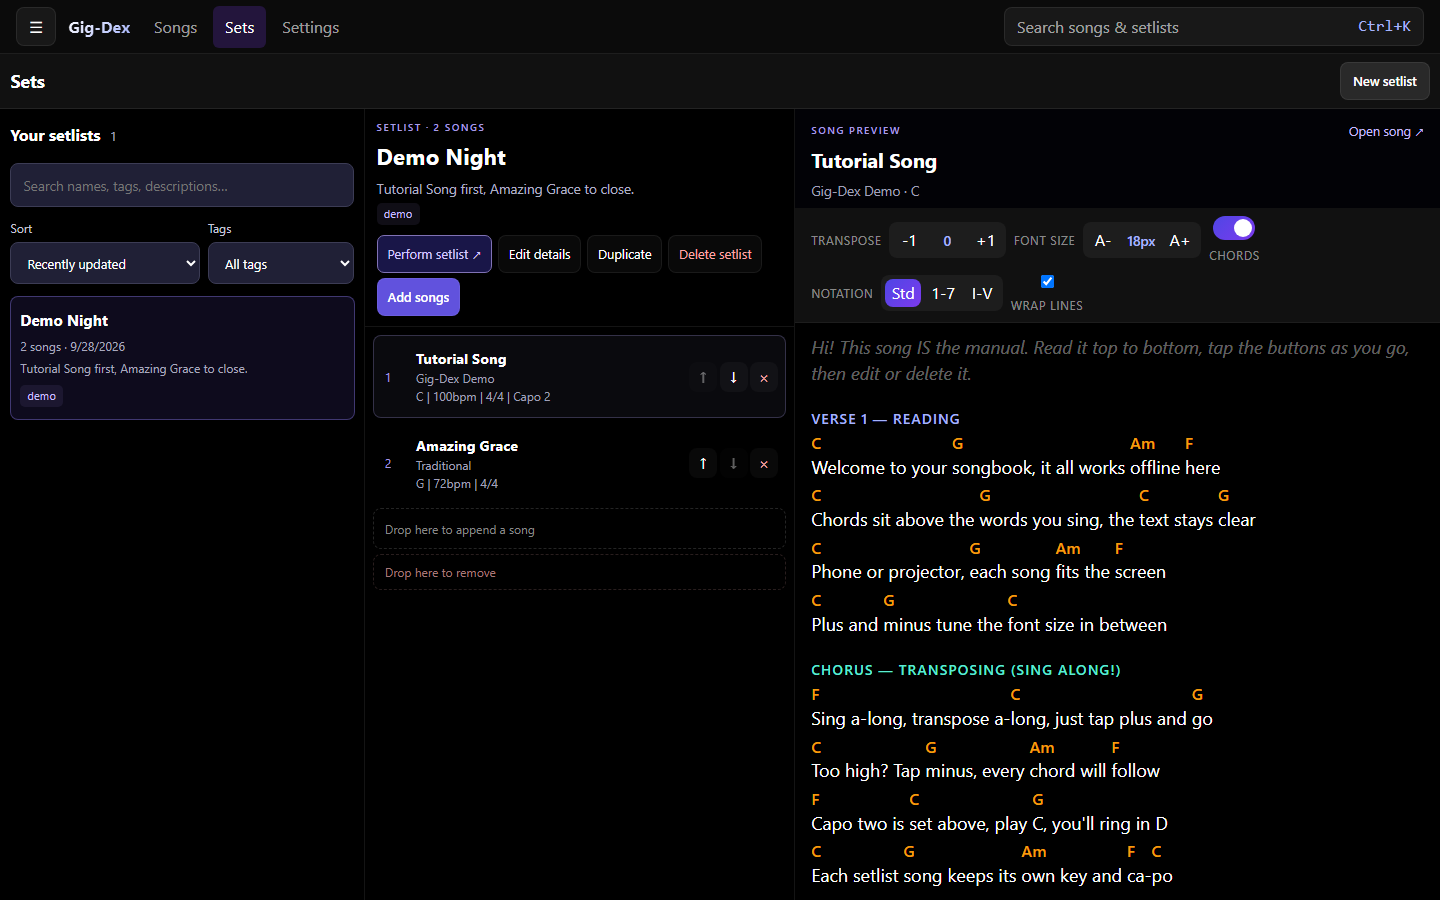
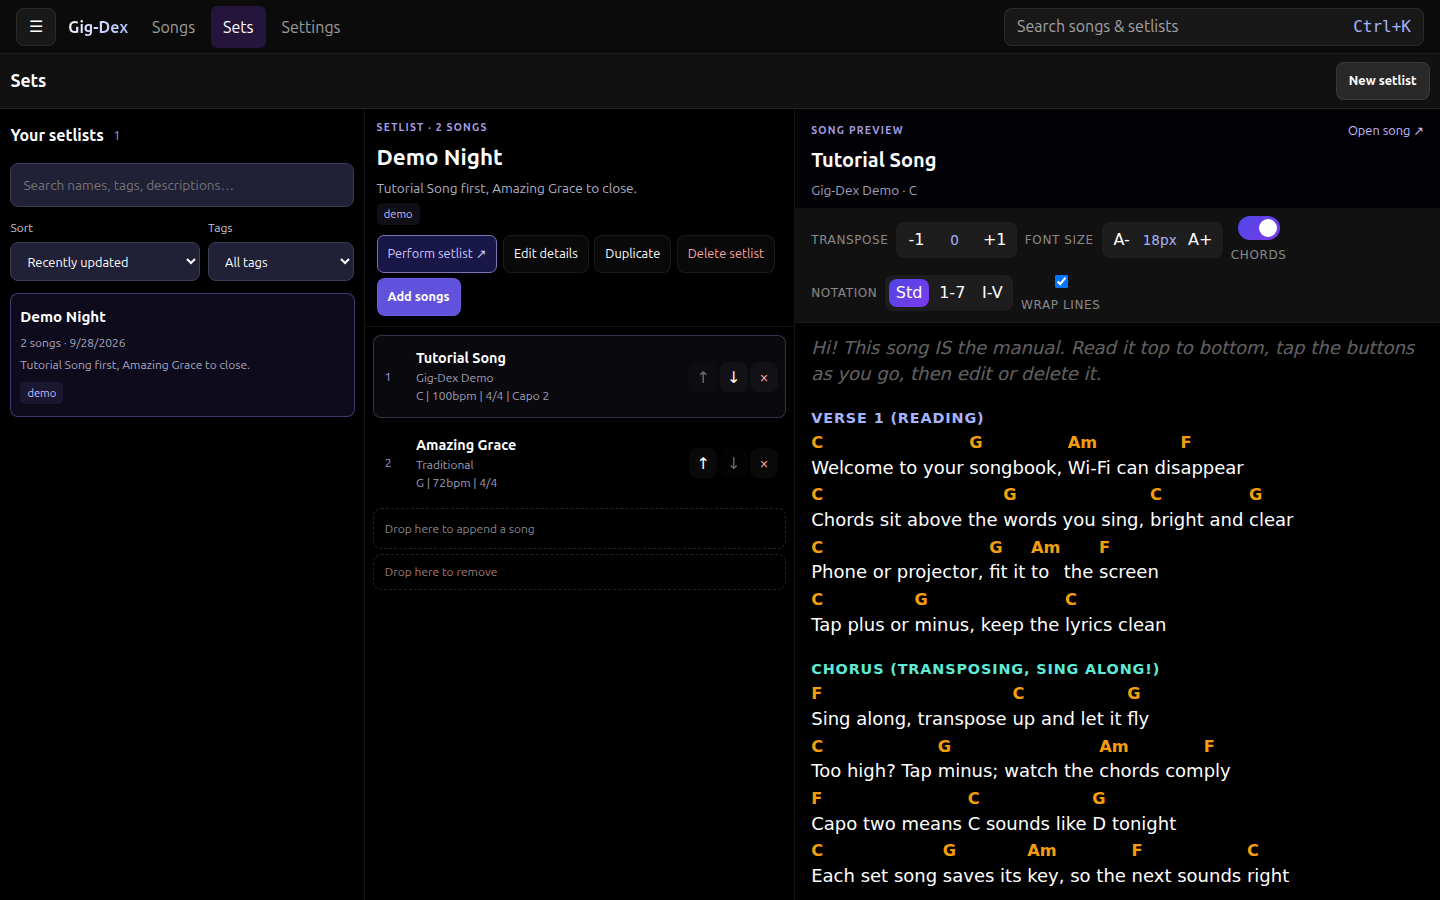
Polish tutorial song and render instrumental chords

diff --git a/src/utils/demoSong.ts b/src/utils/demoSong.ts
@@ -29,8 +29,8 @@ And [G]grace will [D]lead me [G]home
 
 /**
  * Tutorial Song: the manual you can sing. Each section teaches one
- * Gig-Dex feature. Demonstrates verse, chorus, bridge, instrumental
- * tab, outro, comments and metadata (key, tempo, time, capo).
+ * Gig-Dex feature. Demonstrates verse, chorus, bridge, chord-only
+ * instrumental, outro, comments and metadata (key, tempo, time, capo).
  */
 export const TUTORIAL_SONG = `{title: Tutorial Song}
 {artist: Gig-Dex Demo}
@@ -41,37 +41,36 @@ export const TUTORIAL_SONG = `{title: Tutorial Song}
 
 {comment: Hi! This song IS the manual. Read it top to bottom, tap the buttons as you go, then edit or delete it.}
 
-{start_of_verse: Verse 1 — Reading}
-[C]Welcome to your [G]songbook, it all works [Am]offline [F]here
-[C]Chords sit above the [G]words you sing, the [C]text stays [G]clear
-[C]Phone or projector, [G]each song [Am]fits the [F]screen
-[C]Plus and [G]minus tune the [C]font size in between
+{start_of_verse: Verse 1 (Reading)}
+[C]Welcome to your [G]songbook, [Am]Wi-Fi can dis[F]appear
+[C]Chords sit above the [G]words you sing, [C]bright and [G]clear
+[C]Phone or projector, [G]fit it [Am]to the [F]screen
+[C]Tap plus or [G]minus, keep the [C]lyrics clean
 {end_of_verse}
 
-{start_of_chorus: Chorus — Transposing (sing along!)}
-[F]Sing a-long, transpose a-[C]long, just tap plus and [G]go
-[C]Too high? Tap [G]minus, every [Am]chord will [F]follow
-[F]Capo two is [C]set above, play [G]C, you'll ring in D
-[C]Each setlist [G]song keeps its [Am]own key and [F]ca-[C]po
+{start_of_chorus: Chorus (Transposing, sing along!)}
+[F]Sing along, transpose [C]up and let it [G]fly
+[C]Too high? Tap [G]minus; watch the [Am]chords com[F]ply
+[F]Capo two means [C]C sounds like [G]D tonight
+[C]Each set song [G]saves its [Am]key, so the [F]next sounds [C]right
 {end_of_chorus}
 
-{start_of_verse: Verse 2 — Setlists}
-[C]Open Sets, make a [G]new list, then [Am]tap the [F]plus sign
-[C]Drag the songs in [G]gig order, [C]repeats are [G]fine
-[C]Hit Perform when [G]lights go down, the [Am]screen stays a-[F]wake
-[C]Arrows, swipe, or [G]big buttons — [C]next song, piece of cake
+{start_of_verse: Verse 2 (Setlists)}
+[C]Open Sets, make a [G]new list, [Am]tap the [F]plus sign
+[C]Drag songs into [G]gig order; [C]encores twice are [G]fine
+[C]Hit Perform when [G]lights go down, the [Am]screen stays [F]bright
+[C]Swipe to the [G]next song; no [C]page-flip fight
 {end_of_verse}
 
-{start_of_bridge: Bridge — Safety}
-[Am]Before the gig ex-[G]port your JSON [F]file
-[Am]Paste Ultimate-[G]Guitar chords too, they [C]convert just fine
-[Am]Sync through folders [G]if you like, or [F]keep it all right here
-[C]Offline-[G]first means [Am]no Wi-[F]Fi [C]fear
+{start_of_bridge: Bridge (Safety)}
+[Am]Before the gig, ex-[G]port a backup [F]file
+[Am]Paste in chord sheets [G]too; your library [C]grows in style
+[Am]Sync through folders [G]if you like, or [F]keep it right here
+[C]If the [G]router calls in [Am]sick, the [F]chords won't [C]disappear
 {end_of_bridge}
 
-{start_of_tab: Instrumental (tune up while nobody sings)}
+{comment: Instrumental}
 [C] [G] [Am] [F] | [C] [G] [C]
-{end_of_tab}
 
 {start_of_outro: Outro}
 [C]That's the tour, now [G]go and [Am]play the [F]show

diff --git a/e2e/home.spec.ts b/e2e/home.spec.ts
@@ -56,6 +56,26 @@ test.describe("Home Page", () => {
 		await expect(page.locator("#sidebar-songs .library-sidebar__links a")).not.toBeVisible();
 	});
 
+	test("demo Instrumental uses the chord color", async ({ page }) => {
+		await page.goto("./");
+		await page.getByRole("button", { name: "Add Demo Song" }).click();
+		await page.getByRole("link", { name: /Tutorial Song Gig-Dex Demo/ }).click();
+		const label = page.locator(".song-view__content .section-instrumental");
+		await expect(label).toBeVisible();
+		const chords = await label.evaluate((element) => {
+			const section = element.closest(".paragraph") ?? element.parentElement;
+			return Array.from(section?.querySelectorAll(".chord") ?? []).map((chord) => ({
+				text: chord.textContent?.trim(),
+				color: getComputedStyle(chord).color,
+			}));
+		});
+		const namedChords = chords.filter((chord) => chord.text);
+		expect(namedChords.map((chord) => chord.text)).toEqual(["C", "G", "Am", "F", "C", "G", "C"]);
+		expect(namedChords.every((chord) => chord.color === "rgb(245, 158, 11)")).toBe(true);
+		await label.scrollIntoViewIfNeeded();
+		await page.screenshot({ path: "reports/tutorial-instrumental.png" });
+	});
+
 	test("should navigate to new song page via FAB", async ({ page }) => {
 		await page.goto("./");
 

diff --git a/src/utils/chordEngine.test.ts b/src/utils/chordEngine.test.ts
@@ -8,6 +8,7 @@ import {
 	normalizeSimpleSpacing,
 	parseChordPro,
 	simpleToChordPro,
+	TUTORIAL_SONG,
 	transposeChordPro,
 } from "./chordEngine";
 
@@ -36,6 +37,15 @@ describe("chordEngine", () => {
 
 			expect(result.html).toBeTruthy();
 			expect(typeof result.html).toBe("string");
+		});
+
+		it("renders the demo instrumental as styled chords", () => {
+			const container = document.createElement("div");
+			container.innerHTML = parseChordPro(TUTORIAL_SONG).html;
+			const label = container.querySelector(".section-instrumental");
+			expect(label).not.toBeNull();
+			const instrumental = label?.closest(".paragraph") ?? label?.parentElement;
+			expect(instrumental?.querySelectorAll(".chord").length).toBeGreaterThan(0);
 		});
 	});
 

diff --git a/README.md b/README.md
@@ -1,8 +1,8 @@
 # Gig-Dex 🎸
 
-**Your digital songbook and setlist manager — for the stage, the rehearsal room, and the couch.**
+**Your digital songbook and setlist manager for the stage, the rehearsal room, and the couch.**
 
-Gig-Dex keeps all your songs, chords, and setlists in one place, readable on phone, tablet, or laptop — even when the venue Wi-Fi gives up.
+Gig-Dex keeps all your songs, chords, and setlists in one place, readable on phone, tablet, or laptop, even when the venue Wi-Fi gives up.
 
 👉 **Try it:** https://fannon.github.io/gig-dex/
 
@@ -16,13 +16,13 @@ Gig-Dex keeps all your songs, chords, and setlists in one place, readable on pho
 ### What can I do with it?
 
 - **Collect your repertoire:** keep lyrics + chords together, neatly aligned.
-- **Play in any key:** transpose any song instantly, add a capo — without rewriting anything.
+- **Play in any key:** transpose any song instantly and add a capo without rewriting anything.
 - **Build setlists:** put songs in gig order, including repeats, notes, and per-song key/capo settings.
 - **Perform distraction-free:** big, auto-fitting text, page-by-page or scrolling reading, simple Previous / Next navigation, optional visual beat pulse.
 - **Find songs fast:** search by title, artist, tag, or setlist with `Ctrl+K` (`Cmd+K` on Mac).
 - **Works offline:** once loaded, your library is on your device. No account, no subscription, no cloud required.
 
-It understands the popular [ChordPro](https://www.chordpro.org/) format (`[Am]Hello [G]world`), so you can paste or import songs from many other tools. The simple editor also accepts the typical guitar-chords style with chord lines above the lyrics (like [Ultimate-Guitar chord sheets](https://tabs.ultimate-guitar.com/)) and converts it automatically — editing always happens in monospace so chords stay aligned. An explicit one-click import for that format is planned.
+It understands the popular [ChordPro](https://www.chordpro.org/) format (`[Am]Hello [G]world`), so you can paste or import songs from many other tools. The simple editor also accepts the typical guitar-chords style with chord lines above the lyrics (like [Ultimate-Guitar chord sheets](https://tabs.ultimate-guitar.com/)) and converts it automatically. Editing happens in monospace so chords stay aligned. An explicit one-click import for that format is planned.
 
 <table>
   <tr valign="top">
@@ -31,31 +31,31 @@ It understands the popular [ChordPro](https://www.chordpro.org/) format (`[Am]He
     <td><a href="docs/screenshots/demo-setlist.png"><img src="docs/screenshots/demo-setlist.png" alt="Demo Night setlist with ordered songs and song preview" width="100%"></a></td>
   </tr>
   <tr valign="middle" align="center">
-    <td><em>The Tutorial Song — tap "Add Demo Songs" to get it</em></td>
+    <td><em>The Tutorial Song. Tap "Add Demo Songs" to get it.</em></td>
     <td><em>Simple editor with live preview</em></td>
     <td><em>Demo Night setlist with song preview</em></td>
   </tr>
 </table>
 
-### Get started in 3 steps — no account needed
+### Get started in 3 steps (no account needed)
 
 1. **Open the app** in your browser (link above).
-2. **Add songs:** go to *Settings → Import* and drop in a few `.pro` / `.chopro` / `.txt` ChordPro files — or create a new song and paste text.
+2. **Add songs:** go to *Settings → Import* and drop in a few `.pro` / `.chopro` / `.txt` ChordPro files, or create a new song and paste text.
 3. **Make a setlist:** go to *Sets → New setlist*, tap **+** on songs to add them, then hit **Perform setlist**.
 
 That's it. Everything is saved automatically on that device.
 
 ### Your songs are safe: backup & sync
 
-Your library lives **on your device** (in your browser). That means it's private and offline-capable — but you should still back it up or sync it if you use multiple devices.
+Your library lives **on your device** (in your browser). That means it's private and offline-capable. You should still back it up or sync it if you use multiple devices.
 
-**1. Backup file — simplest, everyone can do this**
+**1. Backup file: simple and available to everyone**
 
 *Settings → Backup → Export* downloads a single `.json` file with all your songs and setlists. Email it to yourself, put it on a USB stick, keep it somewhere safe. *Settings → Restore backup* brings it back, on any device.
 
 Use this before gigs, before updates, before cleaning up. It just works.
 
-**2. Local folder sync — recommended if you want automatic sync**
+**2. Local folder sync: recommended for automatic sync**
 
 If you already use OneDrive, Google Drive, Dropbox, or Nextcloud on your computer, this is the easiest automatic option:
 
@@ -66,17 +66,17 @@ Gig-Dex writes small files there, and *your existing desktop sync app* carries t
 Limitations to know:
 
 - Picking a folder only works in Chrome or Edge on desktop (browser limitation).
-- On your phone/tablet, use the backup file above to transfer songs — mobile browsers can't pick sync folders.
+- On your phone/tablet, use the backup file above to transfer songs because mobile browsers can't pick sync folders.
 
 Details: [docs/local-folder-sync.md](docs/local-folder-sync.md)
 
-**3. Direct Google Drive / OneDrive sync — advanced only (bring your own Client ID)**
+**3. Direct Google Drive / OneDrive sync: advanced only (bring your own Client ID)**
 
 Gig-Dex *can* talk directly to Google Drive and OneDrive, but there is no shared, ready-to-click cloud integration:
 
 > You have to register your **own** Google / Microsoft OAuth app ("bring your own Client ID") and paste its ID into Gig-Dex under *Settings → Cloud Sync → Use your own cloud Client IDs*.
 
-That's doable if you're tech-savvy, but deliberately inconvenient — registering OAuth apps, redirect URLs, and consent screens is fiddly. **Most musicians should ignore this and use option 1 or 2 above.**
+That's doable if you're tech-savvy, but registering OAuth apps, redirect URLs, and consent screens is fiddly. **Most musicians should use option 1 or 2 above.**
 
 If you want to try it anyway, start with [docs/local-folder-sync.md](docs/local-folder-sync.md) ("Runtime cloud configuration").
 
@@ -84,7 +84,7 @@ If you want to try it anyway, start with [docs/local-folder-sync.md](docs/local-
 
 Open the live URL in Chrome, then **⋮ → Add to home screen → Install**. It then opens fullscreen, stays available offline, and can keep the screen awake during a gig (see *Performance options*).
 
-Before an important gig: open your setlist once while online, then try airplane mode + close/reopen — you'll see exactly what the stage will see.
+Before an important gig, open your setlist once while online, then try airplane mode and close/reopen the app. You'll see exactly what the stage will see.
 
 ---
 
@@ -99,16 +99,16 @@ This project uses `npm` (also works with `bun` / `yarn`):
 ```bash
 npm install
 npm run dev        # start dev server
-npm run validate   # lint + typecheck + unit tests — run after every change
-npm run verify     # validate + build + E2E tests — run before declaring "done"
+npm run validate   # lint + typecheck + unit tests; run after every change
+npm run verify     # validate + build + E2E tests; run before declaring "done"
 ```
 
 More commands:
 
-- `npm run test` / `npm run test:e2e` — Vitest / Playwright
-- `npm run lint:fix` / `npm run format` — Biome
-- `npm run screenshots -- --input tmp/import --output reports/song-layout` — song layout audit (see script help)
-- `node scripts/readme-screenshots.mjs` — regenerate the two synthetic README screenshots
+- `npm run test` / `npm run test:e2e`: Vitest / Playwright
+- `npm run lint:fix` / `npm run format`: Biome
+- `npm run screenshots -- --input tmp/import --output reports/song-layout`: song layout audit (see script help)
+- `node scripts/readme-screenshots.mjs`: regenerate the synthetic README screenshots
 
 ### Docs
 
@@ -118,7 +118,7 @@ More commands:
 - Performance mode, song defaults: [docs/song-defaults-and-performance.md](docs/song-defaults-and-performance.md), [docs/performance-and-onedrive-2026-09-27.md](docs/performance-and-onedrive-2026-09-27.md)
 - Search & reading settings: [docs/search-and-reading-settings.md](docs/search-and-reading-settings.md)
 
-OneDrive / Google OAuth setup for local development lives in those docs — end users don't need it.
+OneDrive / Google OAuth setup for local development lives in those docs. End users don't need it.
 
 ---
 
